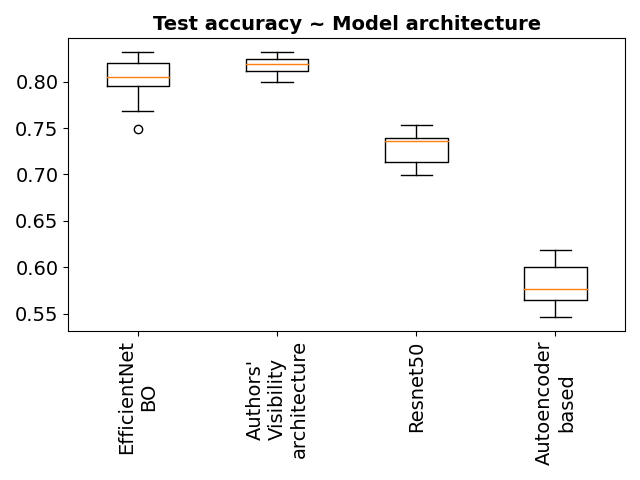
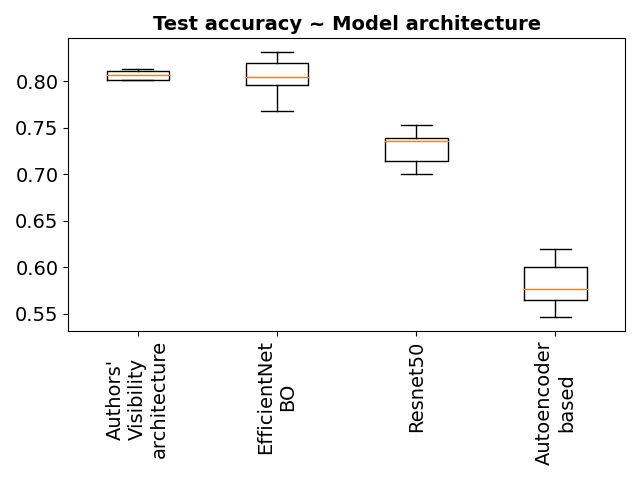
*

diff --git a/Bal_Overfit_Siam_Result/make_boxplots_resnet_vs_isVisible.py b/Bal_Overfit_Siam_Result/make_boxplots_resnet_vs_isVisible.py
@@ -9,13 +9,24 @@ df_metrics = pd.read_csv(metrics_file)
 lbl_models = {"EffNet": "EfficientNet\nBO", "Resnet50": "Resnet50", "IsVisible": "Authors'\nVisibility\narchitecture", "autoenc": "Autoencoder\nbased"}
 lst_test_accs = []
 lst_x_labels = []
-for model_version in np.unique( df_metrics.model_version):
-     test_accs = df_metrics.test_acc [df_metrics.model_version==model_version]
-     lst_test_accs.append(test_accs)
-     lst_x_labels.append(lbl_models[model_version])
-     #lst_x_labels.append("a\nb")
 
-plt.boxplot (lst_test_accs, labels=lst_x_labels)
+# Add results of resplit data
+abl_visible_file = "../DataResplit_Ablation/metrics_data_resplit.csv"
+df_metrics_visible_resplit = pd.read_csv(abl_visible_file)
+lst_test_accs.append(df_metrics_visible_resplit.test_acc.tolist())
+lst_x_labels.append ( "Authors'\nVisibility\narchitecture" )
+
+for model_version in np.unique( df_metrics.model_version):
+     #if model_version=="EffNet1":     #exclude results prior to resplitting data
+     if model_version != "IsVisible":  # exclude results prior to resplitting data
+          test_accs = df_metrics.test_acc [df_metrics.model_version==model_version]
+          lst_test_accs.append(test_accs)
+          lst_x_labels.append(lbl_models[model_version])
+          #lst_x_labels.append("a\nb")
+
+
+
+plt.boxplot (lst_test_accs, labels=lst_x_labels, showfliers=False)
 plt.tick_params(axis='both', which='major', labelsize=14)
 plt.xticks(ticks=(np.arange(len(lst_x_labels)))+1, labels=lst_x_labels, rotation=90)
 plt.title ("Test accuracy ~ Model architecture", fontsize=14, fontweight="bold")
